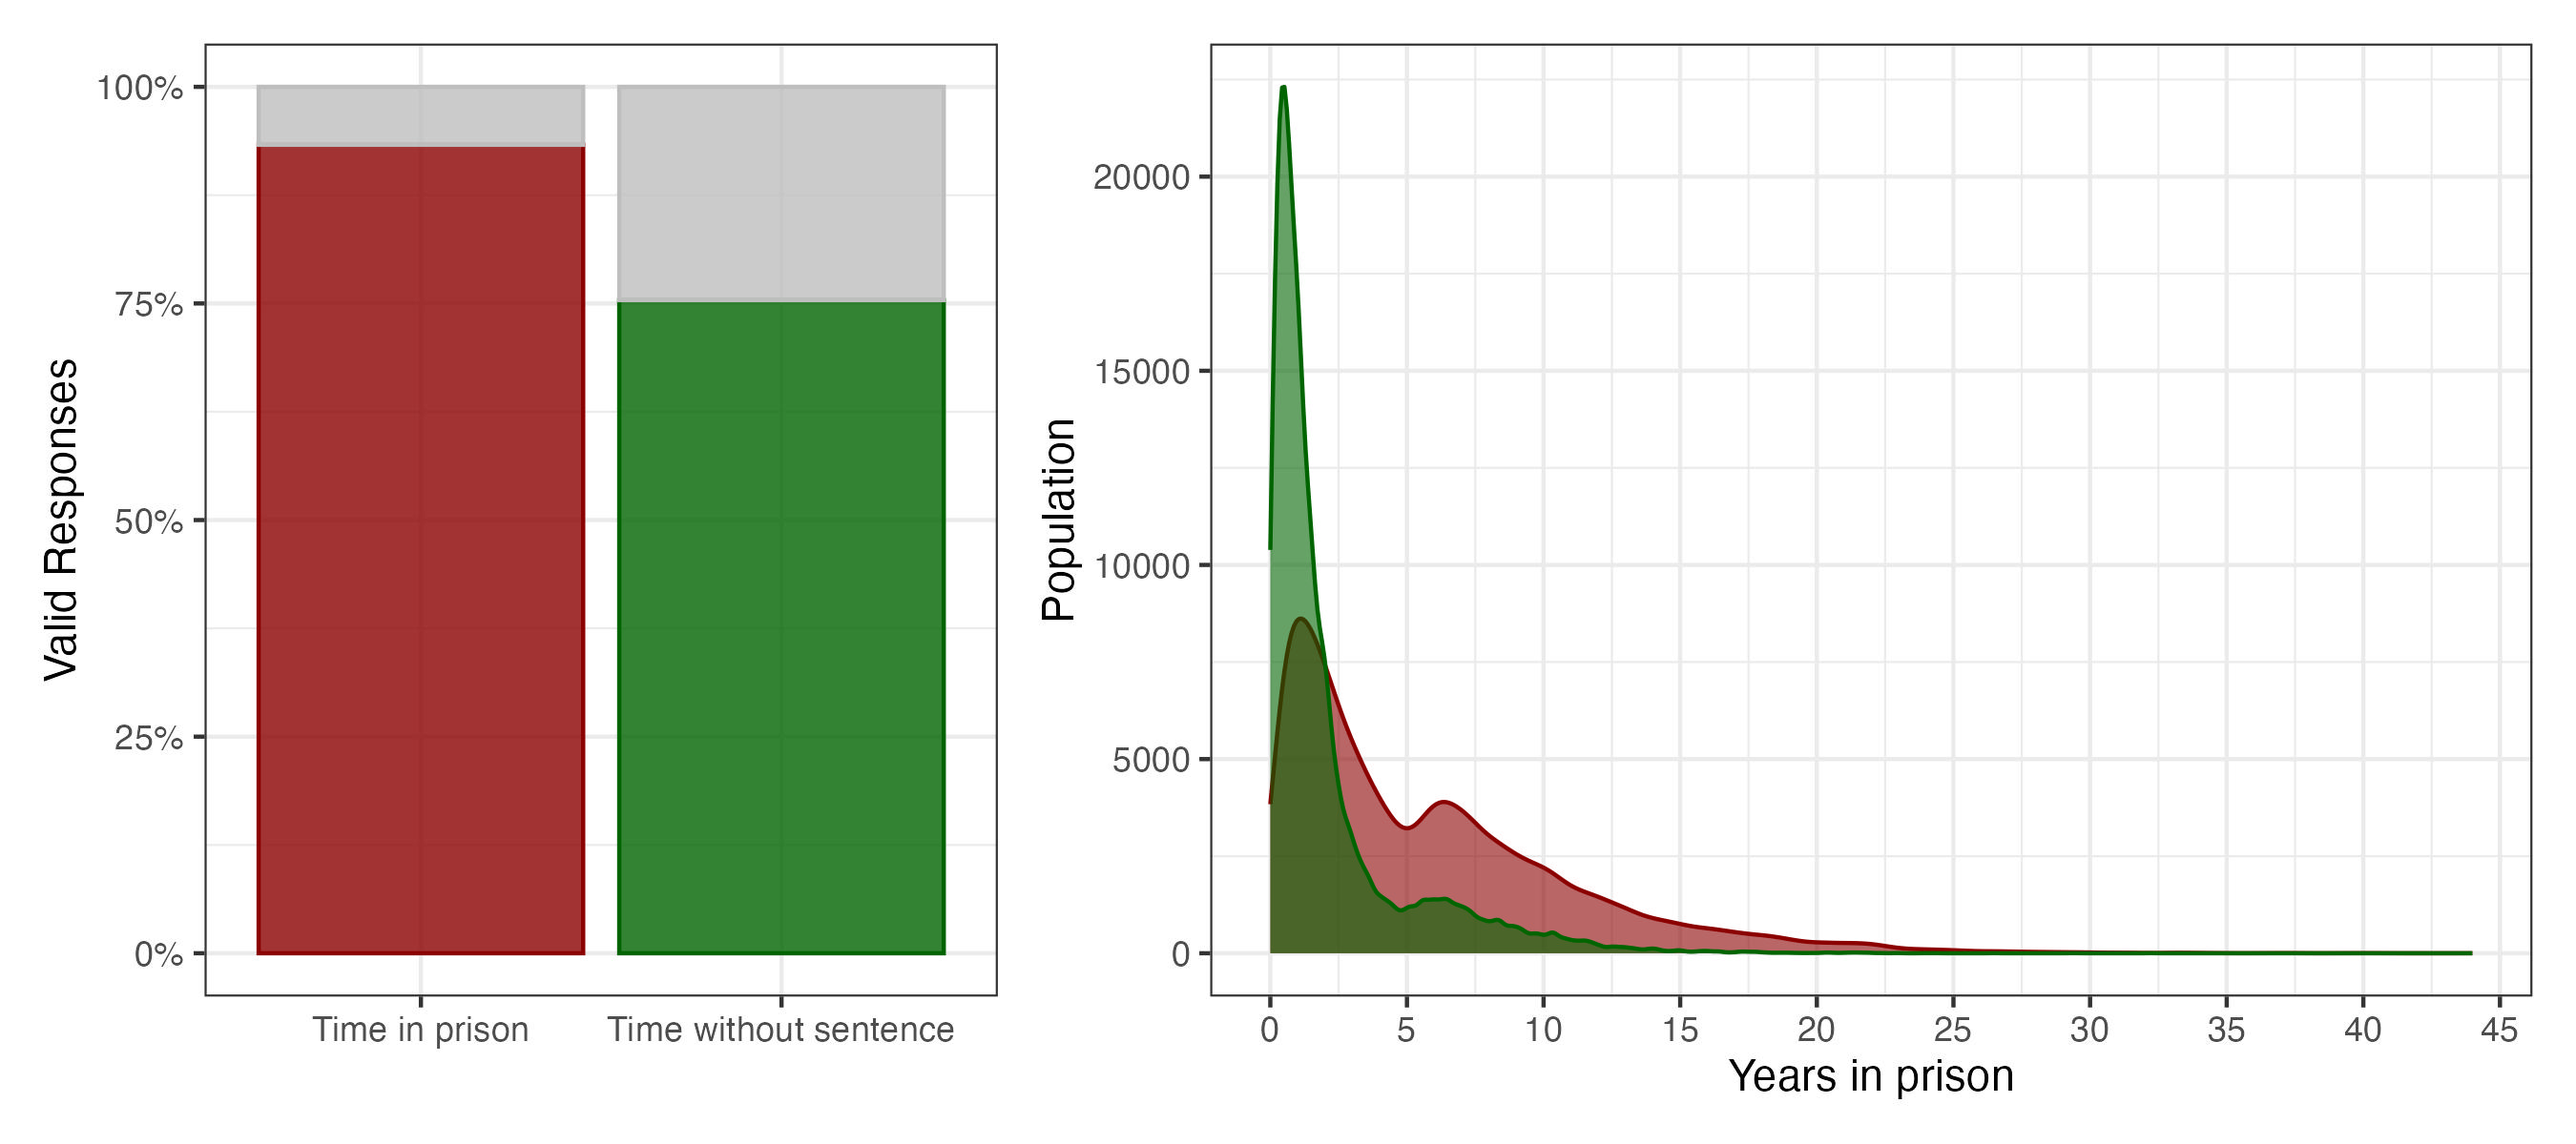
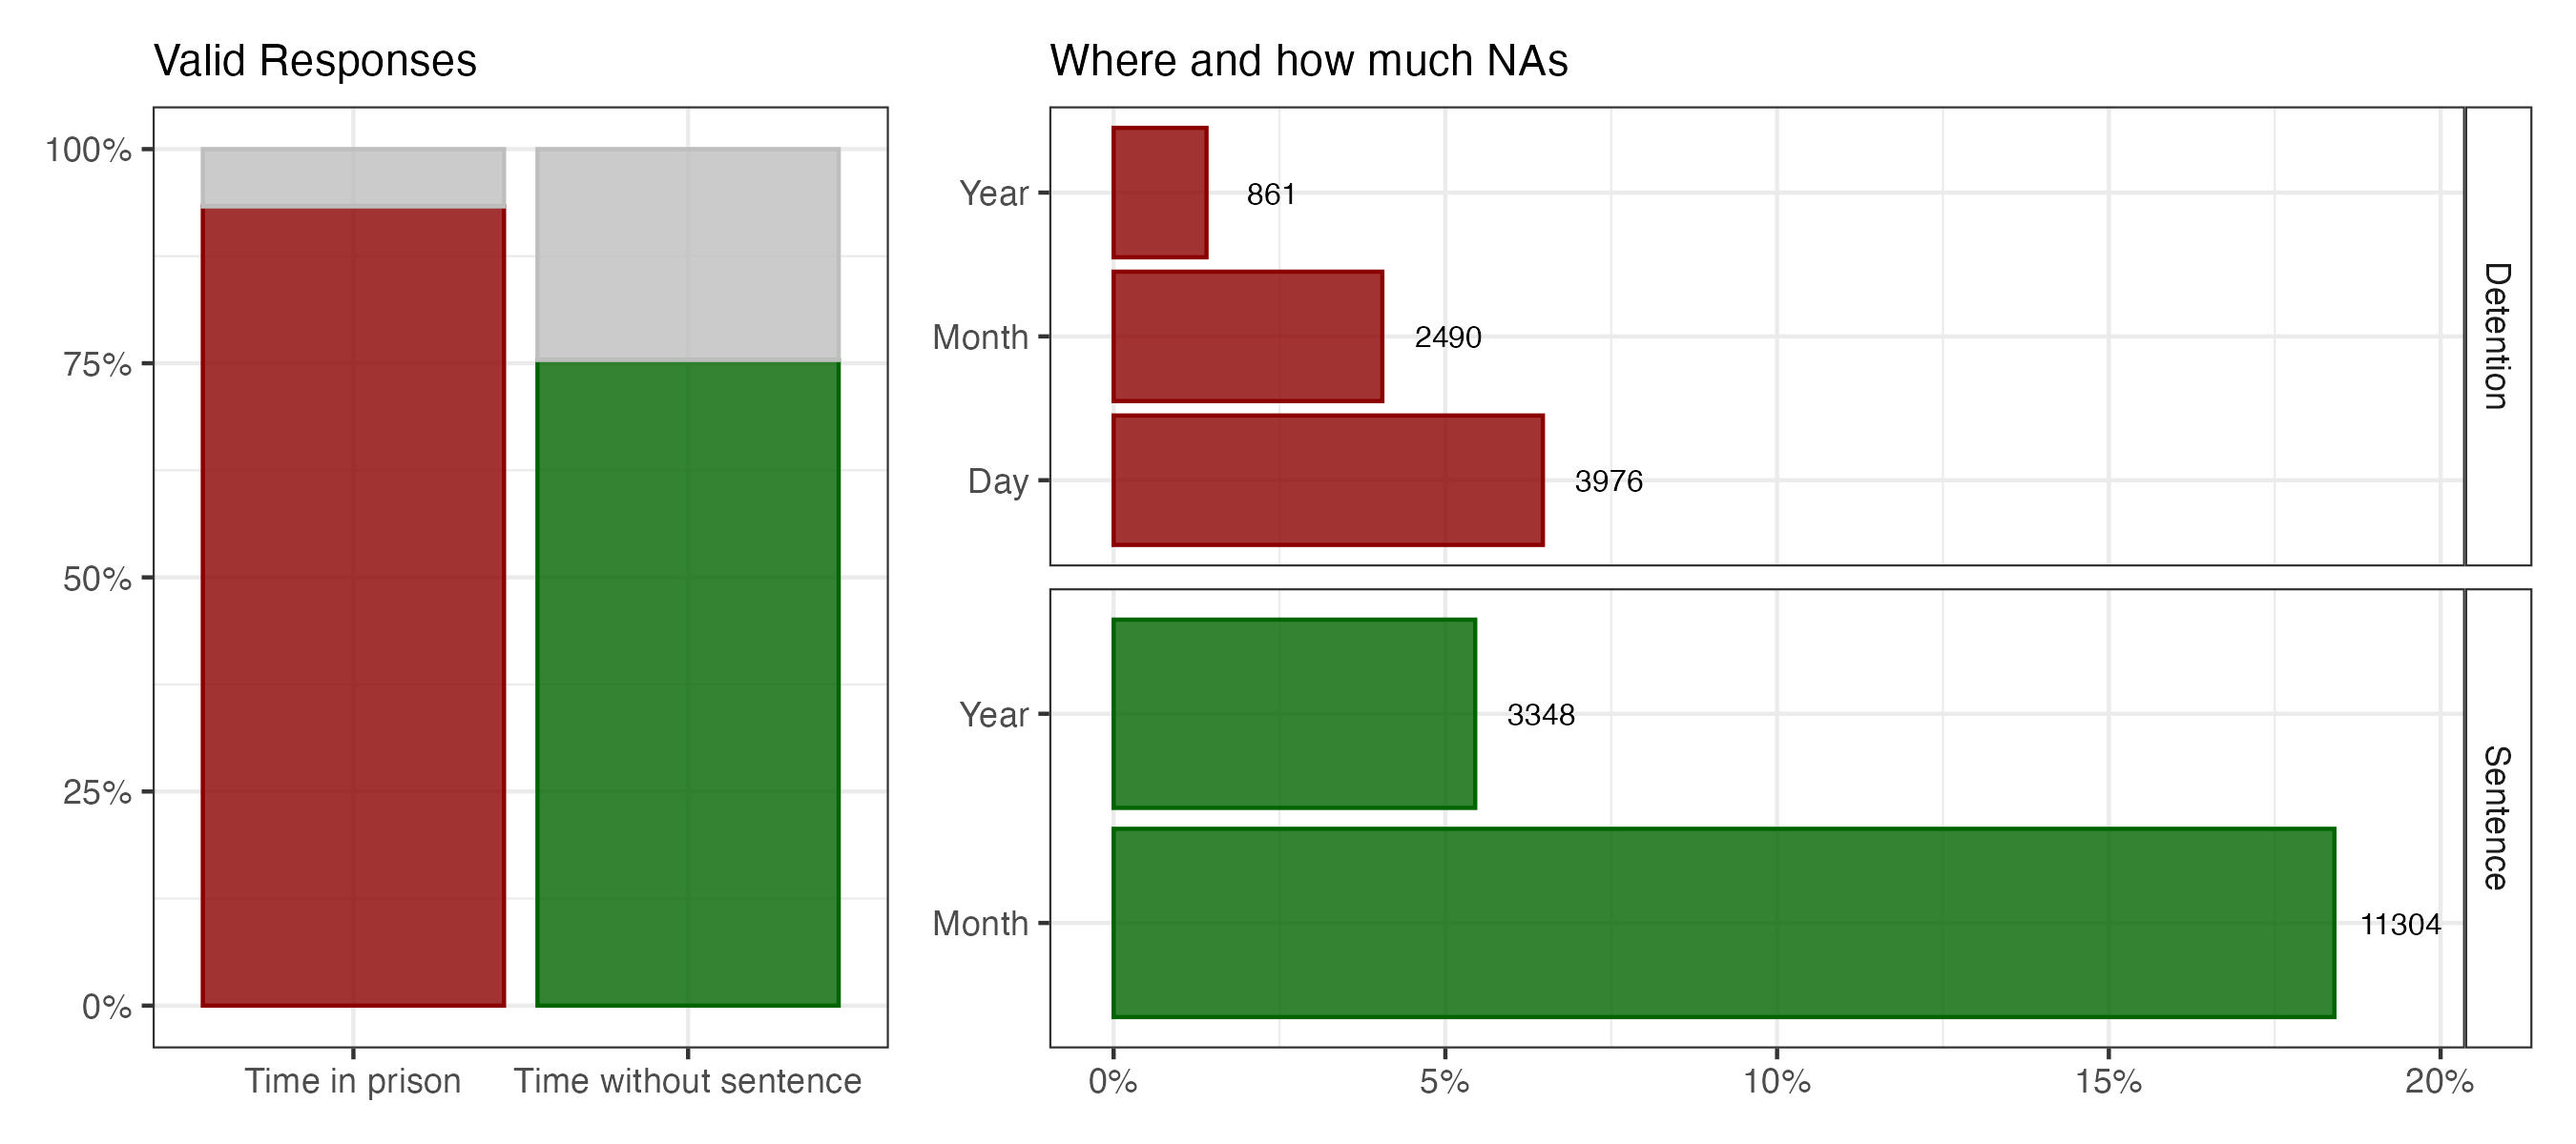
Description advances
Descriptives until second approach

diff --git a/README.md b/README.md
@@ -13,13 +13,13 @@ Despite its importance, continuous measures of prison time are rarely available 
 
 These variables have multiple applications. In my own work they have been used to study demographic and spatial inequalities in pretrial detention[^readme-1] and to reconstruct retrospective environmental exposure histories inside prisons[^readme-2]. More generally, however, the purpose of this repository is methodological: to document how these temporal variables are constructed, validated, and prepared for subsequent analyses.
 
-[^readme-1]: **Yangali, Marcial** & García-Guerrero, V. M. (2026). Years of life lost in prison without sentencing: Analysis of legal and sociodemographic factors in Mexico. Population Research and Policy Review, 45, Article 36. <https://doi.org/10.1007/s11113-026-10021-7>
+[^readme-1]: **Yangali, Marcial** & García-Guerrero, V. M. (2026). Years of life lost in prison without sentencing: Analysis of legal and sociodemographic factors in Mexico. *Population Research and Policy Review*, 45, Article 36. <https://doi.org/10.1007/s11113-026-10021-7>
 
-    Yangali (2026) "Pretrial Detention 2"
+    **Yangali, Marcial** & Baptista E. “Punishment through delay: Institutional inequality and time without sentencing in Mexico.” (Manuscript under review)
 
-    Yangali (2024) "Pretrial Detention 0" Thesis
+    **Yangali, Marcial** (2024) "Heterogeneidad y desigualdad en las prisiones mexicanas: una aproximación demográfica a la cohorte sintética de 2021" Thesis available on El Colegio de México [repository](https://repositorio.colmex.mx/concern/theses/p26770360?f%5Bgeographic_coverage_sim%5D%5B%5D=M%C3%A9xico&locale=en&page=4).
 
-[^readme-2]: Yangali (2026) "Heat stress behind bars". (Work in progress)
+[^readme-2]: **Yangali, Marcial**; Sánchez L. & Baptista E. “Heat Stress Behind Bars: Infrastructural, Biological, and Institutional Vulnerabilities in Mexico”. (Work in progress)
 
 For sentenced individuals, the survey also records the reported length of the prison sentence imposed by the judge. Although this measure is potentially useful for estimating future incarceration time, it is substantially more uncertain than the reconstructed temporal intervals because the effective duration of imprisonment may subsequently change through sentence reductions, new convictions, or other legal mechanisms.
 
@@ -67,36 +67,18 @@ This complete-case strategy is useful as a baseline because it avoids imputation
 
 ![](out/1_valid_responses_distribution.jpg)
 
-> Under this approach, 93.3% of individuals have enough information to estimate time in prison, while 75.4% have enough information to estimate time without sentencing. The average estimated time in prison is 5.78 years, compared with 2.20 years without sentencing. The distributions show that both intervals are concentrated in the first years of incarceration, although time without sentencing is more strongly concentrated between 0 and 3 years.
+> Under this approach, 93.3% of individuals have enough information to estimate time in prison, while 75.4% have enough information to estimate time without sentencing. Missing values concentrate in smaller time scales such days for detention date and months for sentence dates.
 
 ## 2 Simple random day imputation
 
-\- imputar aleatoriamente mes/día no especificados
+![](out/2_valid_responses_distribution.jpg)
 
-\- mantener año no especificado como NA
+> Under this approach, time in prison information increase to 98.6%, +5.3 more. And for time without sentencing it goes up to 91%, +15.6 of information retrieve by random imputation. The average estimated time in prison is 5.75 years, compared with 2.20 years without sentencing. The distributions show that both intervals are concentrated in the first years of incarceration, although time without sentencing is more strongly concentrated between 0 and 3 years. In addition, time without a sentence has negative values due to sentence previous incarceration.
 
 ## 3 Uncertainty propagation with multiple imputation
 
-Idea:
-
-Generar m bases imputadas.
-
-En cada base:
-
-\* mes/día de detención no especificados se imputan aleatoriamente.
-
-\* día de sentencia se imputa aleatoriamente dentro del mes.
-
-\* mes de sentencia no especificado se imputa aleatoriamente.
-
-\* fecha de entrevista se asigna aleatoriamente dentro del levantamiento.
-
-```{r}
-
-```
+[Script ready, description pending]
 
 ## 4 Validation against discrete measures
 
-Use discrete variable
-
-1.1a ¿Cuánto tiempo tiene privado de su libertad? (Desde su ingreso a un centro penitenciario hasta el momento de la entrevista)
+[Pending]
